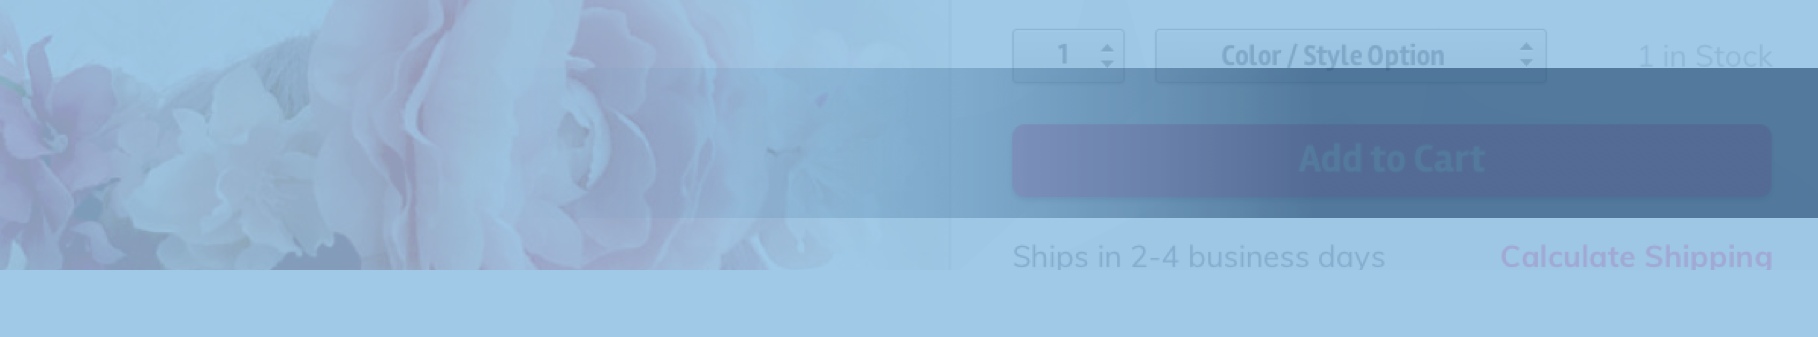
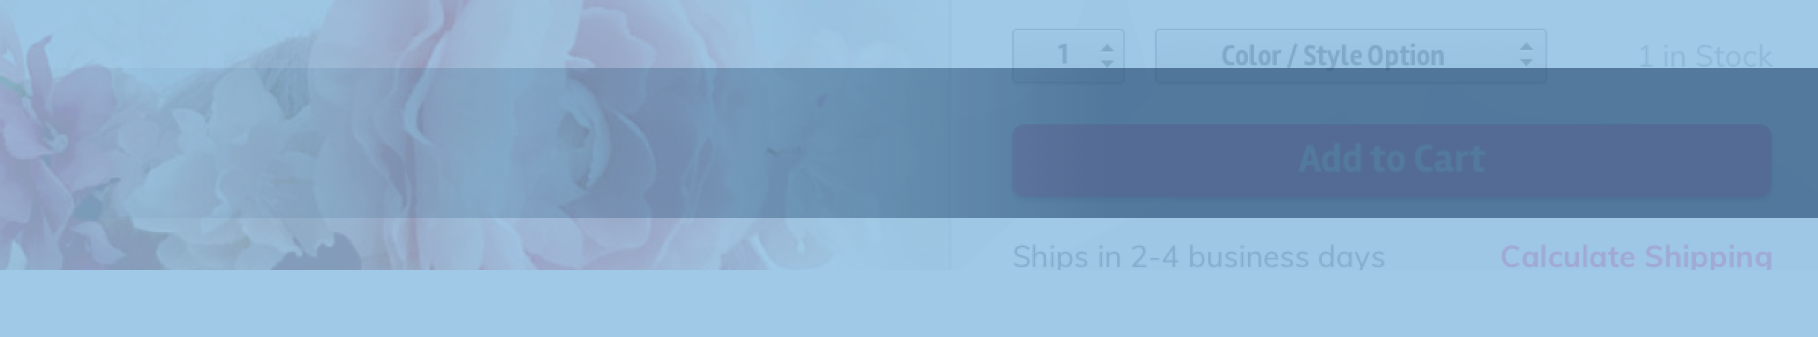
fixed bg image and connect section.
also improved bg images for case studies

Changed region(s): [[0.2464, 0.178, 0.6469, 0.6528]]

diff --git a/locomoda.html b/locomoda.html
@@ -107,39 +107,39 @@
         <section class ="title"><h8><h8 class="bullet">•</h8>&#160; PROCESS</h8></section>
         <h9>DISCOVERY/STRATEGY</h9>
         <p>Initially, I tapped into my community resources with a user survey I built on Iterate.  I’m immersed in several online communities that are made up of big Etsy users (Etsy is perhaps the most direct competition to Loco Moda, and attracts a similar customer base), as well as clothing designers / creatives.  Iterate allows for conditional questions, so I was able to get very specific with the survey- and I gained valuable insight.  80% of festival / special event goers who took the survey dress up specifically for the events they attend.  Of these survey takers, only 2% didn’t spend any money on their special outfits- while 55% of users spent between $50 and $500 on outfit prep for a single event.  On top of that, 15% spent over $500 to make sure they had the perfect outfit.  This was just insight from ONE question- I gained a lot of valuable information from this detailed survey.</p>
-        <img alt="survey results" src="images/locomoda/piecharts1.png">
-        <img alt="survey results" src="images/locomoda/piecharts2.png">
+        <div style="text-align: center"><img alt="survey results" src="images/locomoda/piecharts1.png">
+            <img alt="survey results" src="images/locomoda/piecharts2.png"></div>
          <p class="img-caption">User Survey Results</p>
         <p>The name Loco Moda means “crazy fashion”.  I wanted a name that reads as classy, but also evokes feelings of a celebration, or a festival- and Loco Moda suited these needs.  I did many iterations of logo designs including icons, but I decided it best to stick to a text-based logo that reads as fashion-forward and professional.  I chose a color scheme that I knew would be a bit diffiult to pull off properly- but I knew what I wanted the site to evoke.  Cyan, Royal blue, and an electric pink would give Loco Moda a futuristic, celebratory feel, while the cool greys would keep the site grounded, balanced, and professional.</p>
-        <img alt="mood board" src="images/locomoda/moodboard.png">
+        <div style="text-align: center"> <img alt="mood board" src="images/locomoda/moodboard.png"></div>
         <p class="img-caption">Mood Board</p>
         <p>I did user flows and a site map, which gave me insight into the functionality of my site.  Even though I didn’t plan to fully flesh out every page, I wanted to understand what features would be necessary and how navigating the site would work. <br><br>I created quick thumbnail sketches as my low fidelity wireframes, and did a quick clickable prototype using Invision.  By doing this, I further narrowed down what the most important features of the site would be.  Wireframing also allowed me to determine what would set Loco Moda’s layout and navigation apart from competing sites, namely Etsy.</p>
-        <img alt="sketches" src="images/locomoda/thumbnails.png">
+        <div style="text-align: center"><img alt="sketches" src="images/locomoda/thumbnails.png"></div>
         <p class="img-caption">Loose Thumbnail Sketches</p>
         <p>I then moved to high fidelity wireframes, which I developed for five pages: the dashboard page, an item listing page, a shop page,  an inbox page, and of course, a landing page.  The first four of these would be featured on the landing page in the features and seller features sections.  I also developed the headlines and copy for the landing page at this point.
         </p>
-        <img alt="inbox" src="images/locomoda/inbox-hd.png">
+        <div style="text-align: center"><img alt="inbox" src="images/locomoda/inbox-hd.png"></div>
         <p class="img-caption">Inbox High Fidelity Wireframe</p>
         <h9>VISUAL DESIGN</h9>
         <p>I did several versions of the landing page, so I could pick and choose sections based on what was reading strongest.  After user testing, I determined that the top half from Layout 1 with the bottom half from Layout 4 would be the strongest combination of layouts, and I decided to add an additional feature section in between, with icons similar to the seller feature section in Layout 1.</p>
-        <img alt="landing page wireframes" src="images/locomoda/landingpage-wireframes.png">
+        <div style="text-align: center"><img alt="landing page wireframes" src="images/locomoda/landingpage-wireframes.png"></div>
         <p class="img-caption">Landing Page High Fidelity Wireframes / Layout Options</p>
         <p>I decided to do a simplified form of the featured pages, so users could better absorb the accompanying text.  After having done High Fidelity Wireframes, it was easy to translate the designs to full color and simplify from there.</p>
-        <img alt="simplified screenshots" src="images/locomoda/simplified-screenshots.png">
+        <div style="text-align: center"><img alt="simplified screenshots" src="images/locomoda/simplified-screenshots.png"></div>
         <p class="img-caption">HQ Simplified “Screenshots”</p>
         <p>I also fleshed out the item listing page fully so I could understand the wireframe, simplified HQ sample, and finished HQ screen side-by-side.  I paired with an Etsy shop owner, Bobby Weissenberg, who graciously allowed me to feature his flower crowns and shop info in my sample item listing page.  I developed additional copy, the shop policies for example, to finish the page.</p>
-        <img alt="item listing" src="images/locomoda/itemlisting-progression.png">
+        <div style="text-align: center"><img alt="item listing" src="images/locomoda/itemlisting-progression.png"></div>
         <p class="img-caption">Item Listing Page Wireframe, Simplified HQ Screen, HQ Screen</p>
         <p>I created the HQ Landing page, and made adjustments as I went.  For example, the dark bars behind the section headers were adding uneccessary division and discord.  I changed some of my symbol usage and gave elements within each section more room to breathe.  I also changed my CTA buttons to pill shaped to better differentiate from the rectangular forms in each section.  I also adjusted the spacing of the elements throughout the page to let everything breathe, especially since there was a decent amount of copy to be absorbed.  </p>
-        <img alt="hero changes" src="images/locomoda/hero-changes.png">
-        <img alt="reviews section changes" src="images/locomoda/testimonial-changes.png">
+        <div style="text-align: center"><img alt="hero changes" src="images/locomoda/hero-changes.png">
+            <img alt="reviews section changes" src="images/locomoda/testimonial-changes.png"></div>
         <p class="img-caption">Hero / Review Sections Before and After</p>
-        <p>And with a few more minor tweaks here and there, I completed the Loco Moda Landing Page design.</p>
+        <p>And with a few more minor tweaks here and there, I completed the Loco Moda Landing Page design.</p><br>
         
 
     </section>
         <section class="container landing-btn"><a class="casestudy-btn" href="https://drive.google.com/file/d/0B7Ps6zEx5HaHNnoyR0hJb2lJTzg/view?usp=sharing">VIEW LANDING PAGE <i class="fa fa-long-arrow-right"></i></a>
-        </section><br><br><br>
+        </section><br><br><br><br><br>
     </div>
 <!-- Results -->
     <section class="container plain"><a name="results"></a>

diff --git a/index.html b/index.html
@@ -43,11 +43,12 @@
                 </ul>
             </div>
         </nav>
+            <div class="fullwidthbg">
         <div class="container hero">
             <h1 >Hello!</h1>
             <p class= "one-half">I’m Haley Guilfoile, a UX / UI designer 
                 <br> based in Dallas, TX.</p></div>
-        
+        </div>
     </header>
 
 <!-- Case Studies -->
@@ -214,24 +215,23 @@
     
  <!-- Lets Connect -->
     <section class="connect"> <a name="contact"></a>
-        <h2>LET'S CONNECT</h2>
+       <center> <h2>LET'S CONNECT</h2>
         <ul class="container">
-                <li class="one-twelfth">
+                <li class="connect-item">
                     <i class="fa fa-download"></i>
                     <h4>Resume</h4>
                 </li>
-                <li class="one-twelfth">
+                <li class="connect-item">
                     <a href="mailto:haleyguilfoile@gmail.com?Subject=Hello%20Haley!" target="_top"><i class="fa fa-envelope"></i>
-                    <h4>Email</h4></a>
+                    <h4>Email</h4></a> 
                 </li>
-                <li class="one-twelfth">
+                <li class="connect-item">
                    <a href="https://www.linkedin.com/in/haley-guilfoile-43042aaa/"> <i class="fa fa-linkedin-square"></i>
                        <h4>LinkedIn</h4></a>
                 </li>
                
             </ul>
-    
-    </section>
+        </center></section>
     
 
     <!-- Footer -->

diff --git a/css/style.css b/css/style.css
@@ -119,14 +119,17 @@ header nav ul > li {
    text-decoration: none;
      font-weight: 700;
  }
+header .fullwidthbg {
+    height: 677px;
+    background-image: url("../images/hero-background.png");
+    background-color: #ffffff;
 
+}
 
  header .hero{
   clear: left;
   display: block;
   position: relative;
-          background-image: url("../images/hero-background.png");
-  background-color: #ffffff;
 
  }
 
@@ -242,19 +245,32 @@ body .icons {
     padding-left: 20px;
     
 }
-.connect {
-    margin: 0 0 0 0;
+.connect-item {
+        list-style-type: none;
+    position: relative;
+    width: 80px;
+        color: #E26A6A;
+    display: inline-block;
+    padding: 25px;
+
     
 }
+.connect-item > a > i {
+    font-size: 40px;
+    
+}
+.connect-item > i {
+    font-size: 40px;
+}
 .connect > ul {
+    
         text-align: center;
 
 
 }
 .connect > ul > li {
-    list-style-type: none;
+    
     font-size: 36px;
-    color: #E26A6A;
     
 }
 h4 {
@@ -356,6 +372,8 @@ line-height: 70px;
 .blue img {
     margin-top: 15px;
     margin-bottom: 5px;
+        text-align: left;
+
 }
 .plain img {
     margin-top: 15px;
